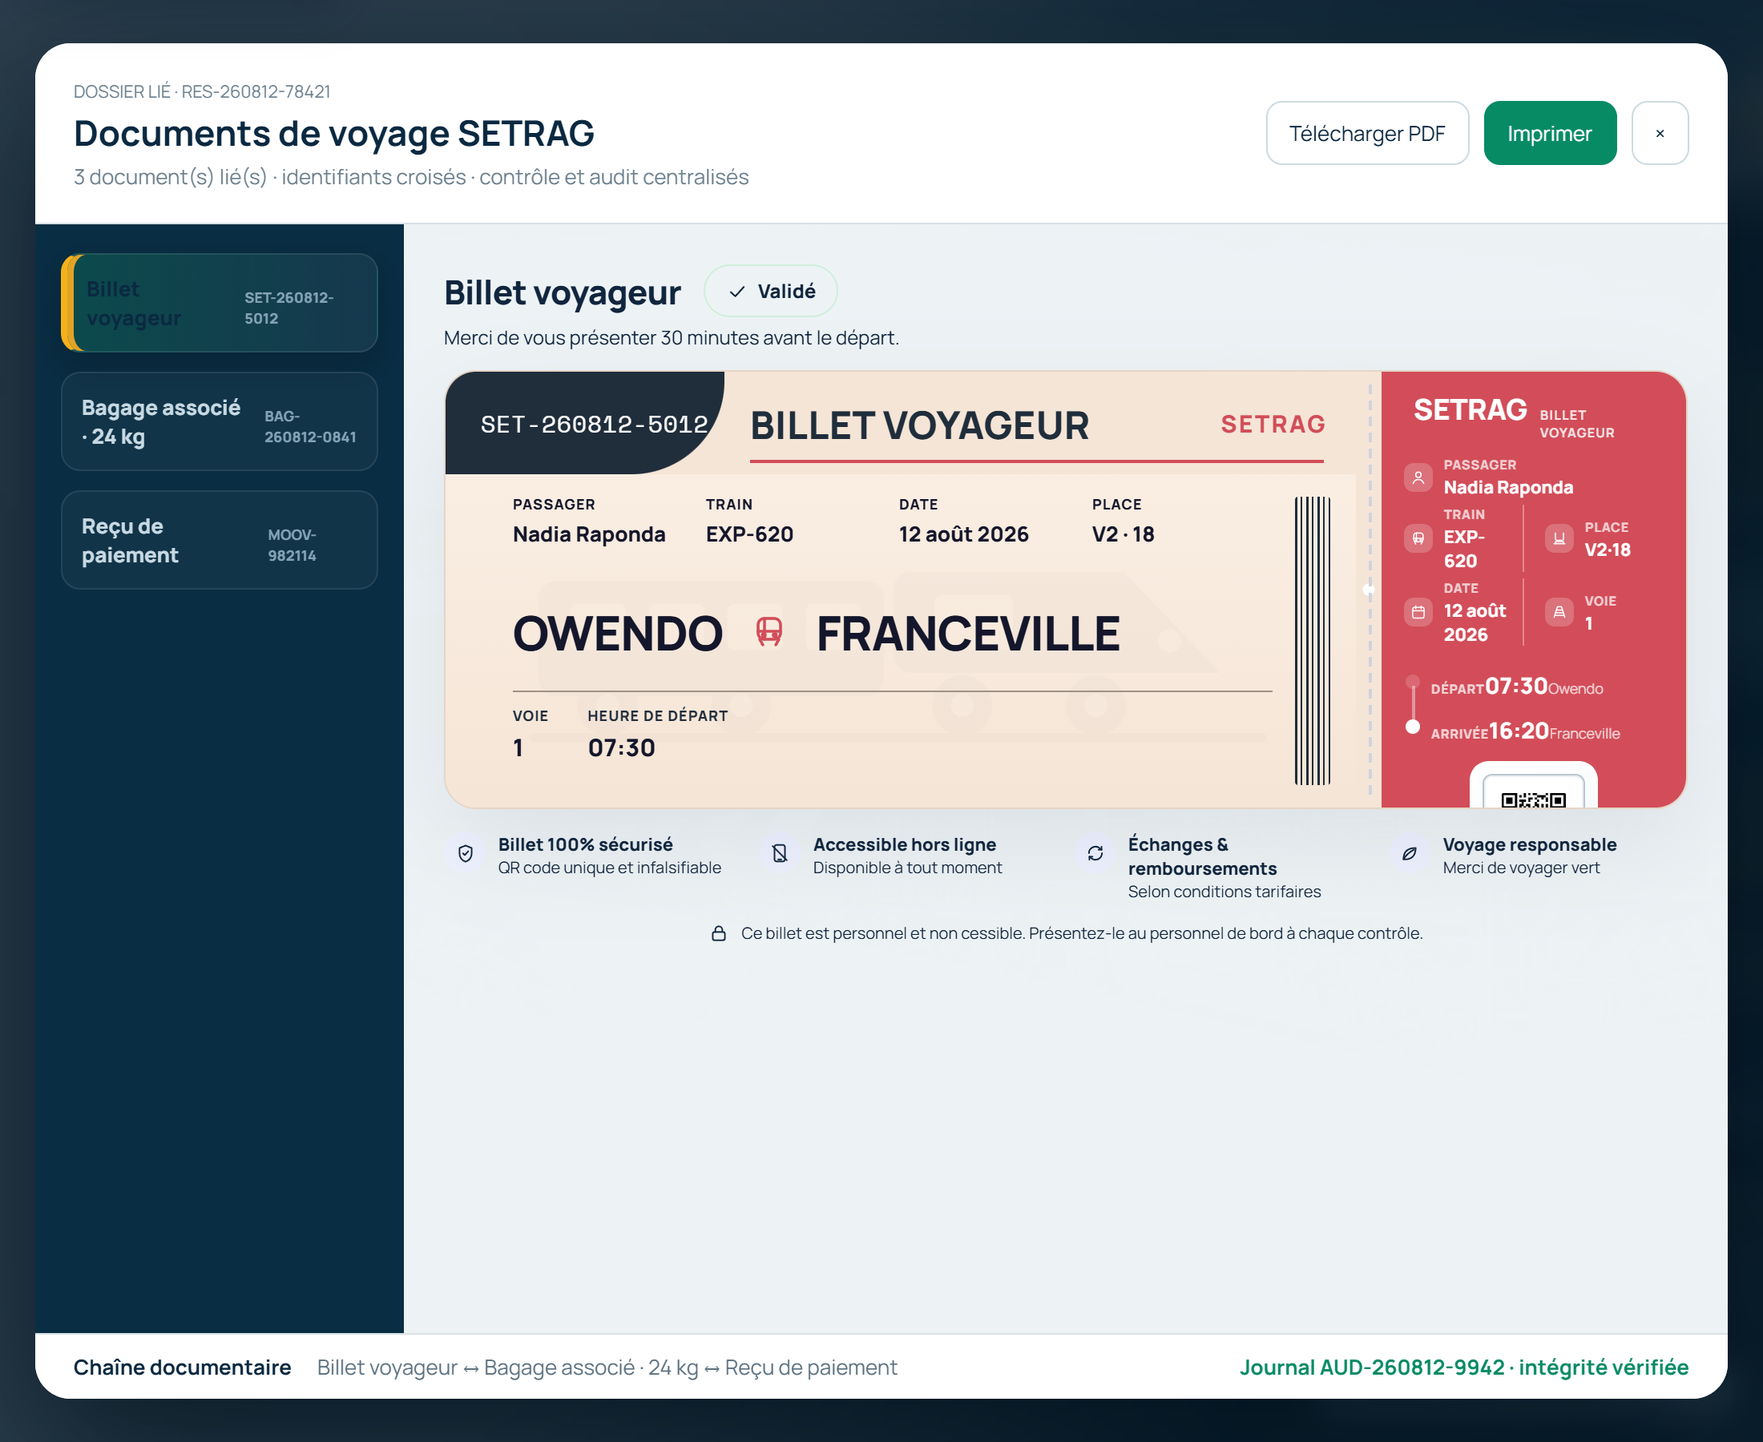
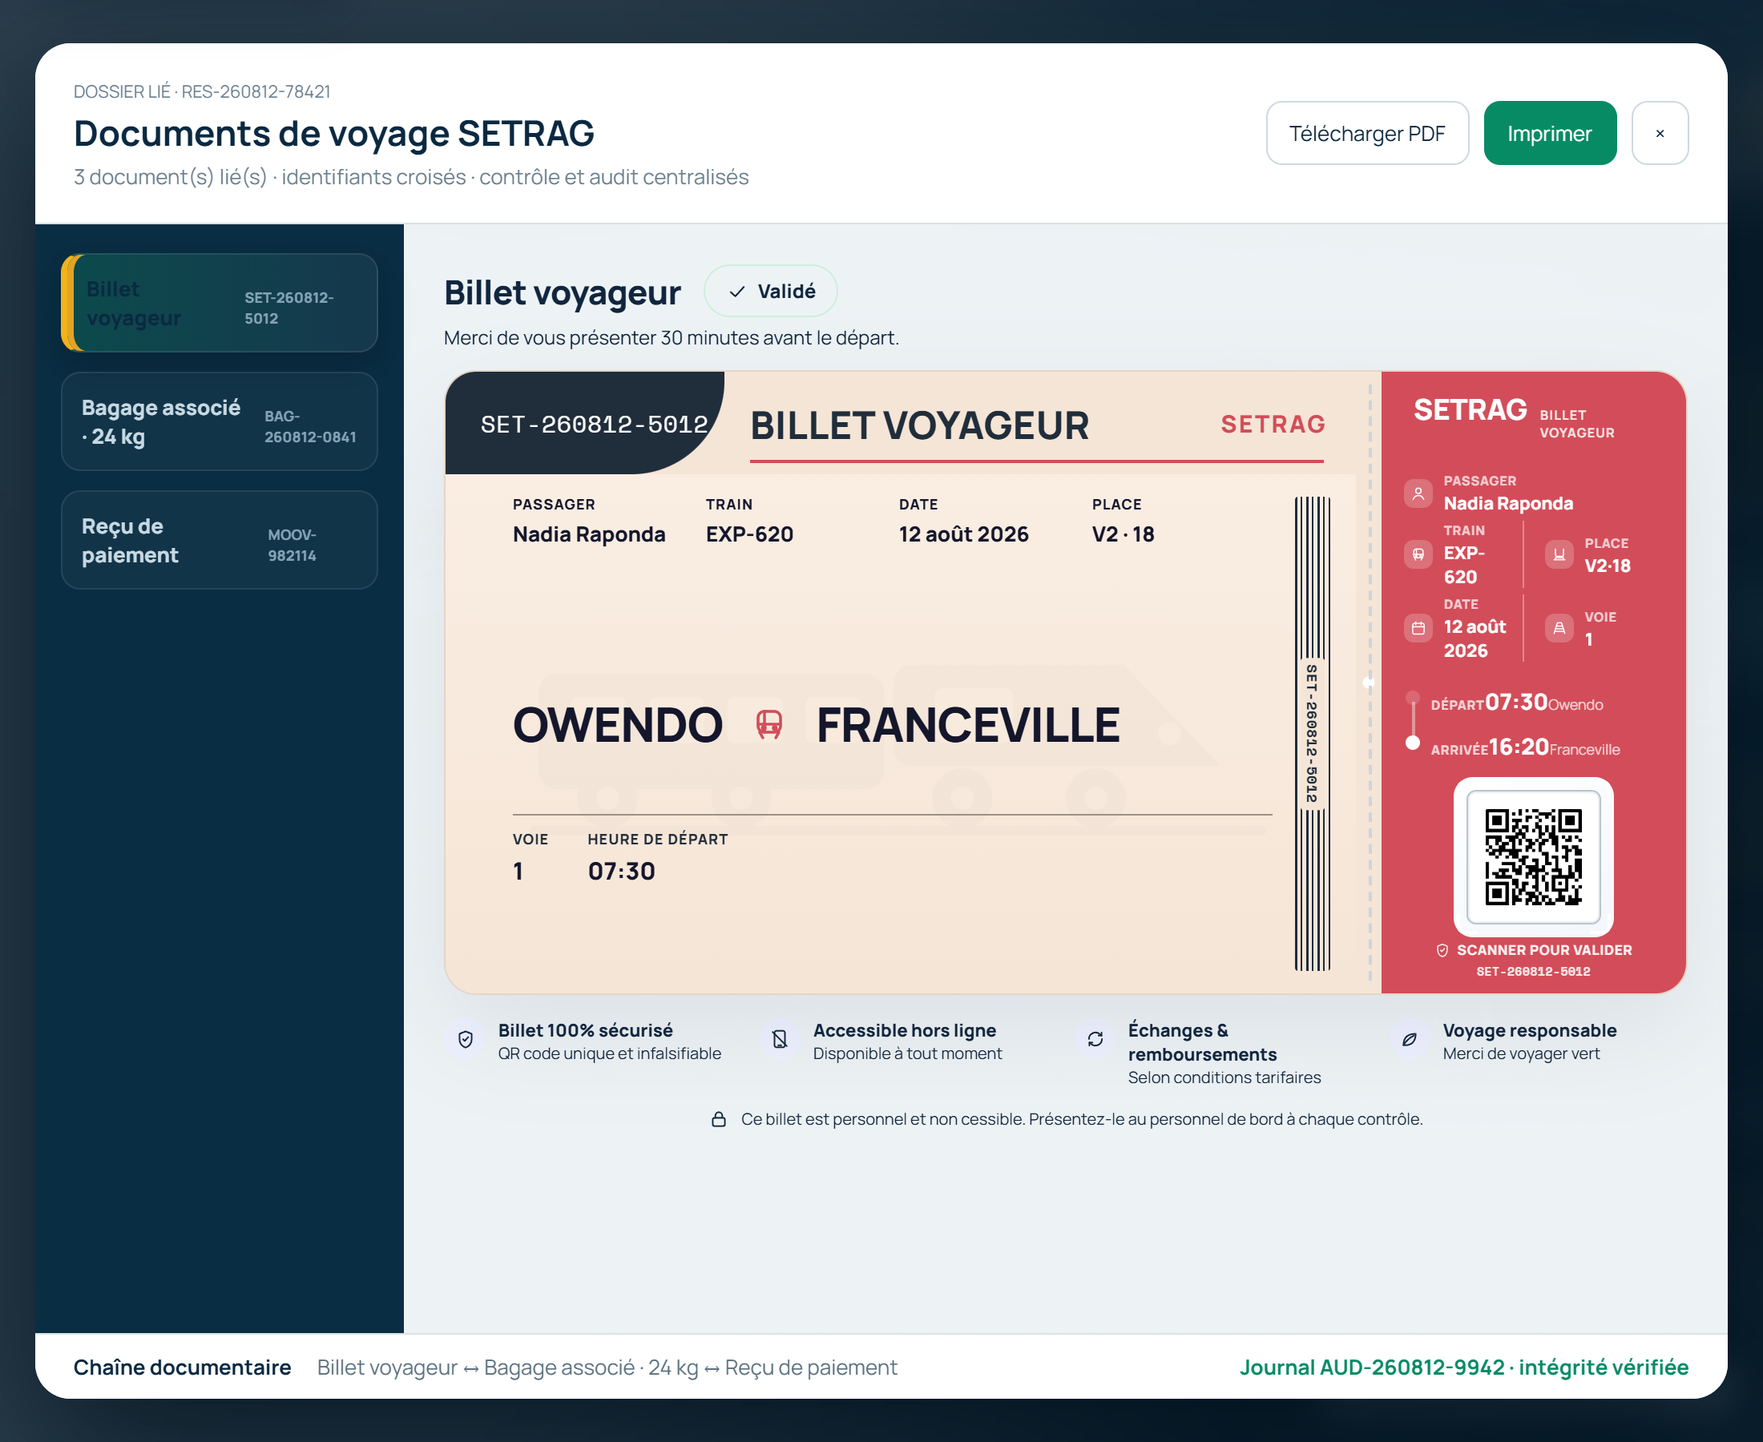
Fix QR clipping, give the barcode its printed number, migrate the receipt to the boarding-pass design
The forced aspect-ratio on .tkt-card was clipping the QR out of view at
desktop widths (overflow:hidden + a ratio too short for the stub's
content) — now sizes to content instead. Adds a rotated printed number
through the decorative barcode on all three documents, matching how a
real barcode looks. Rebuilds receipt() on the same tkt-bp-* boarding-pass
structure (navy tab, cream body, PAYÉ hero amount, red stub with
HT/TVA/CSS/TTC and QR) by reusing the .ticket-doc palette scope, so all
four documents now share one consistent design. Verified via local
Playwright screenshots of all three before shipping.

Changed region(s): [[0.2473, 0.3111, 0.9582, 0.7778], [0.4636, 0.4044, 0.6491, 0.5289], [0.2782, 0.4044, 0.4327, 0.5289]]

diff --git a/ticket-documents.js b/ticket-documents.js
@@ -35,7 +35,7 @@ function ticket(){
   <div class="tkt-bp-main">
    <div class="tkt-bp-band"><em class="tkt-ref-tab">${dossier.sale}</em><strong>BILLET VOYAGEUR</strong><span>SETRAG</span></div>
    <div class="tkt-bp-body">
-    <div class="tkt-bp-barcode"></div>
+    <div class="tkt-bp-barcode"><b>${dossier.sale}</b></div>
     <div class="tkt-bp-watermark">${tkTrainWatermark}</div>
     <div class="tkt-bp-fields">
      <div><small>Passager</small><b>${dossier.passenger}</b></div>
@@ -76,11 +76,43 @@ function ticket(){
 }
 const barcode=v=>`<div class="premium-barcode"><i></i><i></i><i></i><i></i><i></i><i></i><i></i><i></i><i></i><i></i><small>${v}</small></div>`;
 const serviceRoute=(codeA,codeB,extra)=>`<div class="premium-service-route"><section><small>ORIGINE</small><strong>${codeA}</strong><b>${dossier.from}</b></section><div><span>TRANSGABONAIS</span><i>→</i><small>${extra}</small></div><section><small>DESTINATION</small><strong>${codeB}</strong><b>${dossier.to}</b></section></div>`;
-function bag(){return `<div class="tkt-page bag-pass-page"><div class="tkt-top"><h1>Ticket bagage</h1><span class="tkt-badge ok">${ti('check')}Enregistré</span></div><p class="tkt-sub">Fixer le coupon principal au bagage et conserver le talon jusqu’à la restitution.</p><article class="setrag-document premium-service bag-doc tkt-card bag-bp-card"><div class="tkt-bp-main"><div class="tkt-bp-band"><strong>TICKET BAGAGE</strong><span>SETRAG · BAGAGE ACCOMPAGNÉ</span></div><div class="tkt-bp-body"><div class="tkt-bp-barcode"></div><div class="tkt-bp-watermark">${tkTrainWatermark}</div><div class="tkt-bp-fields"><div><small>Propriétaire</small><b>${dossier.passenger}</b></div><div><small>Billet voyageur</small><b>${dossier.sale}</b></div><div><small>Train / service</small><b>${dossier.train} · ${dossier.service}</b></div><div><small>Date</small><b>12 AOÛT 2026</b></div></div><div class="tkt-bp-hero"><b>OWENDO</b><i>${ti('train')}</i><b>FRANCEVILLE</b></div><div class="tkt-bp-foot bag-bp-foot"><div><small>Poids contrôlé</small><b>24 KG</b></div><div><small>Affectation</small><b>SOUTE V4 · B</b></div><div><small>Montant TTC</small><b>520 FCFA</b></div><div><small>Dernier scan</small><b>09:44 · VALIDÉ</b></div></div></div></div><div class="tkt-bp-perf"></div><div class="tkt-bp-stub bag-bp-stub"><div class="tkt-bp-band dark"><b>OWENDO</b><i>${ti('train')}</i><b>FRANCEVILLE</b></div><div class="tkt-bp-stub-fields"><div class="ic"><i class="tkt-ic sm">${ti('tag')}</i><div><small>N° étiquette</small><b>${dossier.bag}</b></div></div><div class="ic"><i class="tkt-ic sm">${ti('user')}</i><div><small>Propriétaire</small><b>${dossier.passenger}</b></div></div><div class="row"><div class="ic"><i class="tkt-ic sm">${ti('train')}</i><div><small>Train</small><b>${dossier.train}</b></div></div><div class="ic"><i class="tkt-ic sm">${ti('shield')}</i><div><small>Poids</small><b>24 KG</b></div></div></div><div class="row"><div class="ic"><i class="tkt-ic sm">${ti('track')}</i><div><small>Soute</small><b>V4 · B</b></div></div><div class="ic"><i class="tkt-ic sm">${ti('tag')}</i><div><small>Tarif</small><b>BAG-Z4</b></div></div></div></div>${tkQrFrame(qr(dossier.bag).replace('doc-qr','doc-qr tkt-qr'),'Scanner au retrait',dossier.bag)}</div></article><div class="tkt-trust bag-pass-trust"><div><i class="tkt-ic">${ti('shield')}</i><div><b>Bagage lié au billet</b><span>${dossier.sale}</span></div></div><div><i class="tkt-ic">${ti('check')}</i><div><b>Poids contrôlé</b><span>Franchise 20 kg + 4 kg</span></div></div><div><i class="tkt-ic">${ti('offline')}</i><div><b>Traçabilité hors ligne</b><span>Dernier scan mémorisé</span></div></div><div><i class="tkt-ic">${ti('refresh')}</i><div><b>Restitution sécurisée</b><span>Rapprochement talon / bagage</span></div></div></div><p class="tkt-legal">${ti('lock')}Étiquette unique et non transférable · rapprochement obligatoire avec le billet voyageur.</p></div>`}
+function bag(){return `<div class="tkt-page bag-pass-page"><div class="tkt-top"><h1>Ticket bagage</h1><span class="tkt-badge ok">${ti('check')}Enregistré</span></div><p class="tkt-sub">Fixer le coupon principal au bagage et conserver le talon jusqu’à la restitution.</p><article class="setrag-document premium-service bag-doc tkt-card bag-bp-card"><div class="tkt-bp-main"><div class="tkt-bp-band"><strong>TICKET BAGAGE</strong><span>SETRAG · BAGAGE ACCOMPAGNÉ</span></div><div class="tkt-bp-body"><div class="tkt-bp-barcode"><b>${dossier.bag}</b></div><div class="tkt-bp-watermark">${tkTrainWatermark}</div><div class="tkt-bp-fields"><div><small>Propriétaire</small><b>${dossier.passenger}</b></div><div><small>Billet voyageur</small><b>${dossier.sale}</b></div><div><small>Train / service</small><b>${dossier.train} · ${dossier.service}</b></div><div><small>Date</small><b>12 AOÛT 2026</b></div></div><div class="tkt-bp-hero"><b>OWENDO</b><i>${ti('train')}</i><b>FRANCEVILLE</b></div><div class="tkt-bp-foot bag-bp-foot"><div><small>Poids contrôlé</small><b>24 KG</b></div><div><small>Affectation</small><b>SOUTE V4 · B</b></div><div><small>Montant TTC</small><b>520 FCFA</b></div><div><small>Dernier scan</small><b>09:44 · VALIDÉ</b></div></div></div></div><div class="tkt-bp-perf"></div><div class="tkt-bp-stub bag-bp-stub"><div class="tkt-bp-band dark"><b>OWENDO</b><i>${ti('train')}</i><b>FRANCEVILLE</b></div><div class="tkt-bp-stub-fields"><div class="ic"><i class="tkt-ic sm">${ti('tag')}</i><div><small>N° étiquette</small><b>${dossier.bag}</b></div></div><div class="ic"><i class="tkt-ic sm">${ti('user')}</i><div><small>Propriétaire</small><b>${dossier.passenger}</b></div></div><div class="row"><div class="ic"><i class="tkt-ic sm">${ti('train')}</i><div><small>Train</small><b>${dossier.train}</b></div></div><div class="ic"><i class="tkt-ic sm">${ti('shield')}</i><div><small>Poids</small><b>24 KG</b></div></div></div><div class="row"><div class="ic"><i class="tkt-ic sm">${ti('track')}</i><div><small>Soute</small><b>V4 · B</b></div></div><div class="ic"><i class="tkt-ic sm">${ti('tag')}</i><div><small>Tarif</small><b>BAG-Z4</b></div></div></div></div>${tkQrFrame(qr(dossier.bag).replace('doc-qr','doc-qr tkt-qr'),'Scanner au retrait',dossier.bag)}</div></article><div class="tkt-trust bag-pass-trust"><div><i class="tkt-ic">${ti('shield')}</i><div><b>Bagage lié au billet</b><span>${dossier.sale}</span></div></div><div><i class="tkt-ic">${ti('check')}</i><div><b>Poids contrôlé</b><span>Franchise 20 kg + 4 kg</span></div></div><div><i class="tkt-ic">${ti('offline')}</i><div><b>Traçabilité hors ligne</b><span>Dernier scan mémorisé</span></div></div><div><i class="tkt-ic">${ti('refresh')}</i><div><b>Restitution sécurisée</b><span>Rapprochement talon / bagage</span></div></div></div><p class="tkt-legal">${ti('lock')}Étiquette unique et non transférable · rapprochement obligatoire avec le billet voyageur.</p></div>`}
 function parcel(){return `<article class="setrag-document premium-service parcel-doc"><div class="doc-watermark">COLIS EXPRESS</div>${brand('BORDEREAU COLIS EXPRESS',dossier.parcel,'EN TRANSIT')}${serviceRoute('OWE','FVE','FRET-332 · WAGON W12')}<div class="premium-identity"><div><small>EXPÉDITEUR</small><h2>Louis Nziengui</h2><span>+241 07 78 11 04 · identité vérifiée</span></div><div class="recipient"><small>DESTINATAIRE</small><h2>Alice Andjoua</h2><span>+241 06 90 32 44</span></div><strong><small>POIDS</small>18 KG</strong></div><div class="premium-keyline"><span><small>CONTENU</small><b>2 CARTONS · PIÈCES MÉCANIQUES</b></span><span><small>VIGNETTES</small><b>VGN-0314-A / B</b></span><span><small>SUIVI COLIRAIL</small><b>CLR-884210</b></span><span><small>PROCHAINE ÉTAPE</small><b>NDJOLÉ</b></span></div>${meta([['N° expédition',dossier.parcel],['Gare départ','OWE · Owendo'],['Gare arrivée','FVE · Franceville'],['Train / wagon','FRET-332 · W12'],['Description','Pièces mécaniques'],['Montant opération','12 400 FCFA'],['Montant perçu','12 400 FCFA'],['Paiement','Airtel Money · AIR-442981'],['Dépôt','12 août · 10:12'],['Déclaration','Contenu non dangereux'],['Émetteur',dossier.device],['Agent',dossier.seller]])}<div class="premium-control">${barcode(dossier.parcel)}${qr(dossier.parcel)}<aside><small>PREUVE DE PRISE EN CHARGE</small><b>Traçabilité de bout en bout</b><span>Signature expéditeur enregistrée · deux vignettes associées · synchronisation COLIRAIL active.</span><em>✓ Scellé · ✓ pesé · ✓ paiement confirmé</em></aside></div></article>`}
 function taa(){return `<article class="setrag-document premium-service taa-doc"><div class="doc-watermark">AUTO ACCOMPAGNÉE</div>${brand('AUTORISATION TRANSPORT AUTO ACCOMPAGNÉ',dossier.taa,'CHARGEMENT AUTORISÉ')}${serviceRoute('OWE','FVE','EXP-773 · PORTE-AUTO A1')}<div class="premium-identity vehicle"><div><small>VÉHICULE</small><h2>TOYOTA HILUX</h2><span>GA-482-LB · Blanc · VIN …8K214</span></div><div><small>CONDUCTEUR / BILLET</small><h2>Marc Rombi</h2><span>SET-260812-5118</span></div><strong><small>MASSE</small>2,1 T</strong></div><div class="premium-keyline"><span><small>EMPLACEMENT</small><b>NIVEAU BAS · P04</b></span><span><small>WAGON</small><b>PORTE-AUTO A1</b></span><span><small>DÉPART</small><b>12 AOÛT · 09:30</b></span><span><small>ÉTAT</small><b>PHOTOS 6/6 SIGNÉES</b></span></div>${meta([['N° expédition',dossier.taa],['Billet voyageur','SET-260812-5118'],['Code tarifaire','TAA-Z6'],['Validité','Train et date indiqués'],['Prix HT','80 189 FCFA'],['TVA / CSS','4 009 / 802 FCFA'],['Montant TTC','85 000 FCFA'],['Paiement','Visa · **** 8842'],['Clés','Remises à l’agent'],['Carburant','Niveau conforme'],['Alarme','Désactivée'],['Contrôle','Autorisé · agent OW-14']])}<div class="premium-control">${barcode(dossier.taa)}${qr(dossier.taa)}<aside><small>AUTORISATION NUMÉRIQUE DE CHARGEMENT</small><b>Contrôles départ conformes</b><span>Dossier lié au billet conducteur, au paiement et au manifeste du train.</span><em>✓ Identité · ✓ véhicule · ✓ emplacement</em></aside></div></article>`}
 function funeral(){return `<article class="setrag-document premium-service funeral-doc"><div class="doc-watermark">ACCÈS RESTREINT</div>${brand('BORDEREAU TRANSPORT FUNÉRAIRE',dossier.funeral,'DOSSIER CONFORME')}${serviceRoute('OWE','FVE','EXP-620 · FOURGON M1')}<div class="premium-identity confidential"><div><small>PERSONNE HABILITÉE</small><h2>Famille Raponda</h2><span>Données sensibles protégées selon le rôle</span></div><strong><small>DOSSIER</small>TF-01</strong></div><div class="premium-keyline"><span><small>AUTORISATION</small><b>AUT-SAN-260812-118</b></span><span><small>SCELLÉ</small><b>SCL-260812-044 · INTACT</b></span><span><small>AFFECTATION</small><b>FOURGON M1</b></span><span><small>CHAÎNE DE GARDE</small><b>ACTIVE</b></span></div>${meta([['N° expédition',dossier.funeral],['Relation','Owendo → Franceville'],['Train','EXP-620'],['Départ','12 août · 07:30'],['Arrivée','12 août · 16:20'],['Poids déclaré','118 kg'],['Montant HT','141 509 FCFA'],['TVA / CSS','7 075 / 1 416 FCFA'],['Montant TTC','150 000 FCFA'],['Paiement','Espèces · CAISSE-OW-01'],['Remise','Agent habilité'],['Journal','AUD-TF-260812-18']])}<div class="premium-control">${barcode(dossier.funeral)}${qr(dossier.funeral)}<aside><small>DOCUMENT À ACCÈS RESTREINT</small><b>Chaîne de garde horodatée</b><span>Consultation, contrôle, remise et impression intégralement journalisés.</span><em>✓ Autorisation · ✓ scellé · ✓ habilitation</em></aside></div></article>`}
-function receipt(){return `<article class="setrag-document service-doc receipt-doc">${brand('REÇU DE PAIEMENT',dossier.paymentRef,'RAPPROCHÉ')}${meta([['Opération',dossier.sale],['Réservation',dossier.reservation],['Payeur',dossier.passenger],['Canal',dossier.payment],['Référence opérateur',dossier.paymentRef],['Montant perçu',dossier.total],['Montant à payer','0 FCFA'],['Date / heure',dossier.issued],['Point de vente',dossier.pos],['Agent',dossier.seller],['Terminal',dossier.device],['Rapprochement','PAY-5512 · confirmé']])}<div class="doc-finance"><span>HT <b>${dossier.ht}</b></span><span>TVA <b>${dossier.vat}</b></span><span>CSS <b>${dossier.css}</b></span><strong>PAYÉ ${dossier.total}</strong></div><footer>${qr(dossier.paymentRef)}<div><b>Preuve de règlement liée au billet</b><span>${dossier.sale} ↔ ${dossier.paymentRef} ↔ V65</span><small>Document vérifiable · piste d’audit complète</small></div></footer></article>`}
+function receipt(){return `<div class="tkt-page"><div class="tkt-top"><h1>Reçu de paiement</h1><span class="tkt-badge ok">${ti('check')}Rapproché</span></div><p class="tkt-sub">Preuve de règlement liée au billet voyageur.</p>
+ <article class="setrag-document receipt-doc ticket-doc tkt-card">
+  <div class="tkt-bp-main">
+   <div class="tkt-bp-band"><em class="tkt-ref-tab">${dossier.paymentRef}</em><strong>REÇU DE PAIEMENT</strong><span>SETRAG</span></div>
+   <div class="tkt-bp-body">
+    <div class="tkt-bp-barcode"><b>${dossier.paymentRef}</b></div>
+    <div class="tkt-bp-watermark">${tkTrainWatermark}</div>
+    <div class="tkt-bp-fields">
+     <div><small>Payeur</small><b>${dossier.passenger}</b></div>
+     <div><small>Canal</small><b>${dossier.payment}</b></div>
+     <div><small>Opération</small><b>${dossier.sale}</b></div>
+     <div><small>Date</small><b>${dossier.issued}</b></div>
+    </div>
+    <div class="tkt-bp-hero"><b>PAYÉ</b><i>${ti('shield')}</i><b>${dossier.total}</b></div>
+    <div class="tkt-bp-foot">
+     <div><small>Point de vente</small><b>${dossier.pos}</b></div>
+     <div><small>Agent</small><b>${dossier.seller}</b></div>
+    </div>
+   </div>
+  </div>
+  <div class="tkt-bp-perf"></div>
+  <div class="tkt-bp-stub">
+   <div class="tkt-bp-band dark"><b>SETRAG</b><span>REÇU DE PAIEMENT</span></div>
+   <div class="tkt-bp-stub-fields">
+    <div class="ic"><i class="tkt-ic sm">${ti('user')}</i><div><small>Payeur</small><b>${dossier.passenger}</b></div></div>
+    <div class="row"><div class="ic"><i class="tkt-ic sm">${ti('tag')}</i><div><small>HT</small><b>${dossier.ht}</b></div></div><div class="ic"><i class="tkt-ic sm">${ti('shield')}</i><div><small>TVA</small><b>${dossier.vat}</b></div></div></div>
+    <div class="row"><div class="ic"><i class="tkt-ic sm">${ti('calendar')}</i><div><small>CSS</small><b>${dossier.css}</b></div></div><div class="ic"><i class="tkt-ic sm">${ti('track')}</i><div><small>TTC</small><b>${dossier.total}</b></div></div></div>
+   </div>
+   ${tkQrFrame(qr(dossier.paymentRef).replace('doc-qr','doc-qr tkt-qr'),'Preuve vérifiable',dossier.paymentRef)}
+  </div>
+ </article>
+ <p class="tkt-legal">${ti('lock')}Document vérifiable · piste d’audit complète · rapproché avec le journal V65.</p>
+</div>`}
 const docs={ticket,bag,receipt,parcel,taa,funeral};
 const saleRows=[
  {kind:'ticket',ref:dossier.sale,client:'Nadia Raponda',contact:'+241 06 45 22 19',service:'Billet voyageur',linked:dossier.reservation,route:'Owendo → Franceville',train:'EXP-620',date:'12 août · 07:30',assignment:'V2 · Place 18',amount:'18 000',pay:'Moov Money',payref:'MOOV-982114',status:'Confirmé',tone:'ok'},

diff --git a/ticket-reference-fixes.css b/ticket-reference-fixes.css
@@ -4,6 +4,22 @@
    reference palette to the baggage coupon so both documents match. Loads
    after ticket-reference-final.css. */
 
+/* ---------- fix: the card's forced aspect-ratio was clipping the QR out of view ---------- */
+@media(min-width:821px){
+  .tkt-card{aspect-ratio:auto!important;height:auto!important;min-height:300px!important}
+  .tkt-bp-qr .doc-qr.tkt-qr{width:82px!important;height:82px!important}
+  .tkt-bp-qr .doc-qr.tkt-qr img{width:74px!important;height:74px!important}
+}
+
+/* ---------- fix: give the decorative barcode its printed number, like a real one ---------- */
+.tkt-bp-barcode{overflow:visible}
+.tkt-bp-barcode b{
+  position:absolute;top:50%;left:50%;transform:translate(-50%,-50%) rotate(90deg);
+  background:var(--ref-paper,var(--tkt-cream,#f3e6d5));padding:3px 4px;border-radius:2px;
+  font:800 9px/1 ui-monospace,'Space Mono',monospace;letter-spacing:.03em;
+  color:var(--ref-navy,var(--tkt-navy,#1c2734));white-space:nowrap;
+}
+
 /* ---------- fix: icon chips, timeline dots and QR frame must read on red ---------- */
 .ticket-doc .tkt-bp-stub .tkt-ic{background:rgba(255,255,255,.2)!important;color:#fff!important}
 .ticket-doc .tkt-bp-stub-stop .dot{border-color:#fff!important;background:rgba(255,255,255,.15)!important}

diff --git a/qa/verify-receipt.js b/qa/verify-receipt.js
@@ -1,0 +1,20 @@
+const {chromium}=require('playwright-core');const path=require('path');
+(async()=>{
+ const browser=await chromium.launch({executablePath:'C:\\Program Files (x86)\\Microsoft\\Edge\\Application\\msedge.exe',headless:true});
+ const page=await browser.newPage({viewport:{width:1100,height:1000},deviceScaleFactor:2});
+ const source='file:///'+path.resolve(__dirname,'..','index.html').replace(/\\/g,'/');
+ await page.goto(source,{waitUntil:'load'});
+ await page.evaluate(async()=>{
+   document.querySelector('#loginForm').dispatchEvent(new Event('submit',{cancelable:true,bubbles:true}));
+   await new Promise(r=>setTimeout(r,1200));
+   navigate('sales');
+   await new Promise(r=>setTimeout(r,600));
+   document.querySelector('[data-doc-open="ticket"]')?.click();
+   await new Promise(r=>setTimeout(r,700));
+   document.querySelector('[data-doc="receipt"]')?.click();
+   await new Promise(r=>setTimeout(r,900));
+ });
+ await page.waitForTimeout(2500);
+ await page.screenshot({path:path.resolve(__dirname,'verify-receipt.png'),fullPage:false});
+ await browser.close();
+})().catch(e=>{console.error(e);process.exitCode=1});
